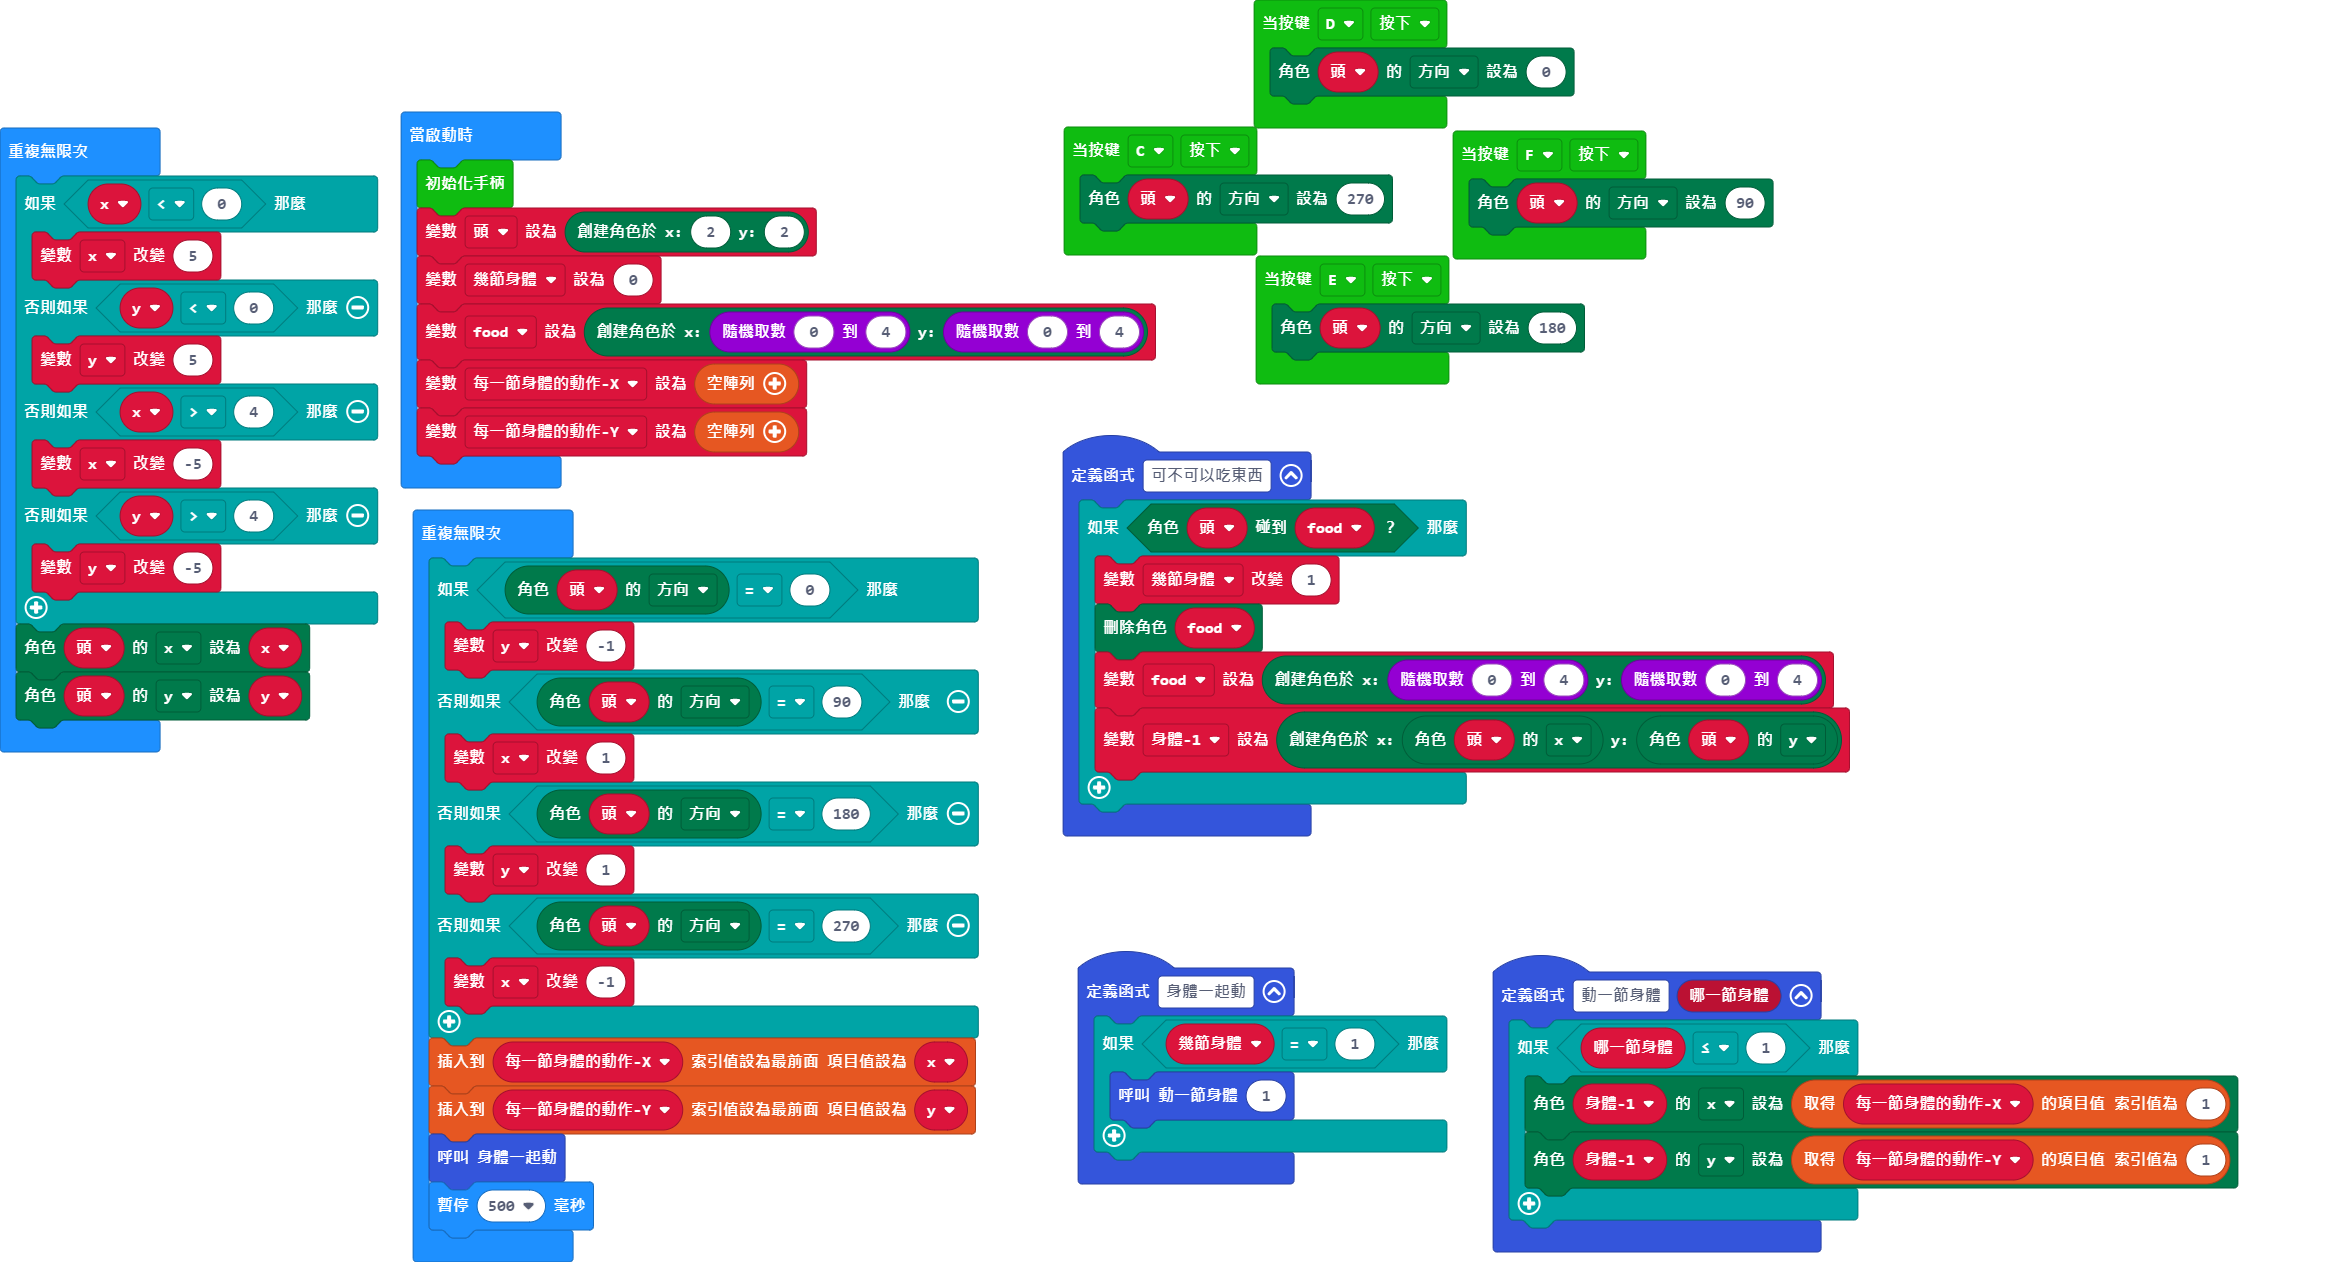
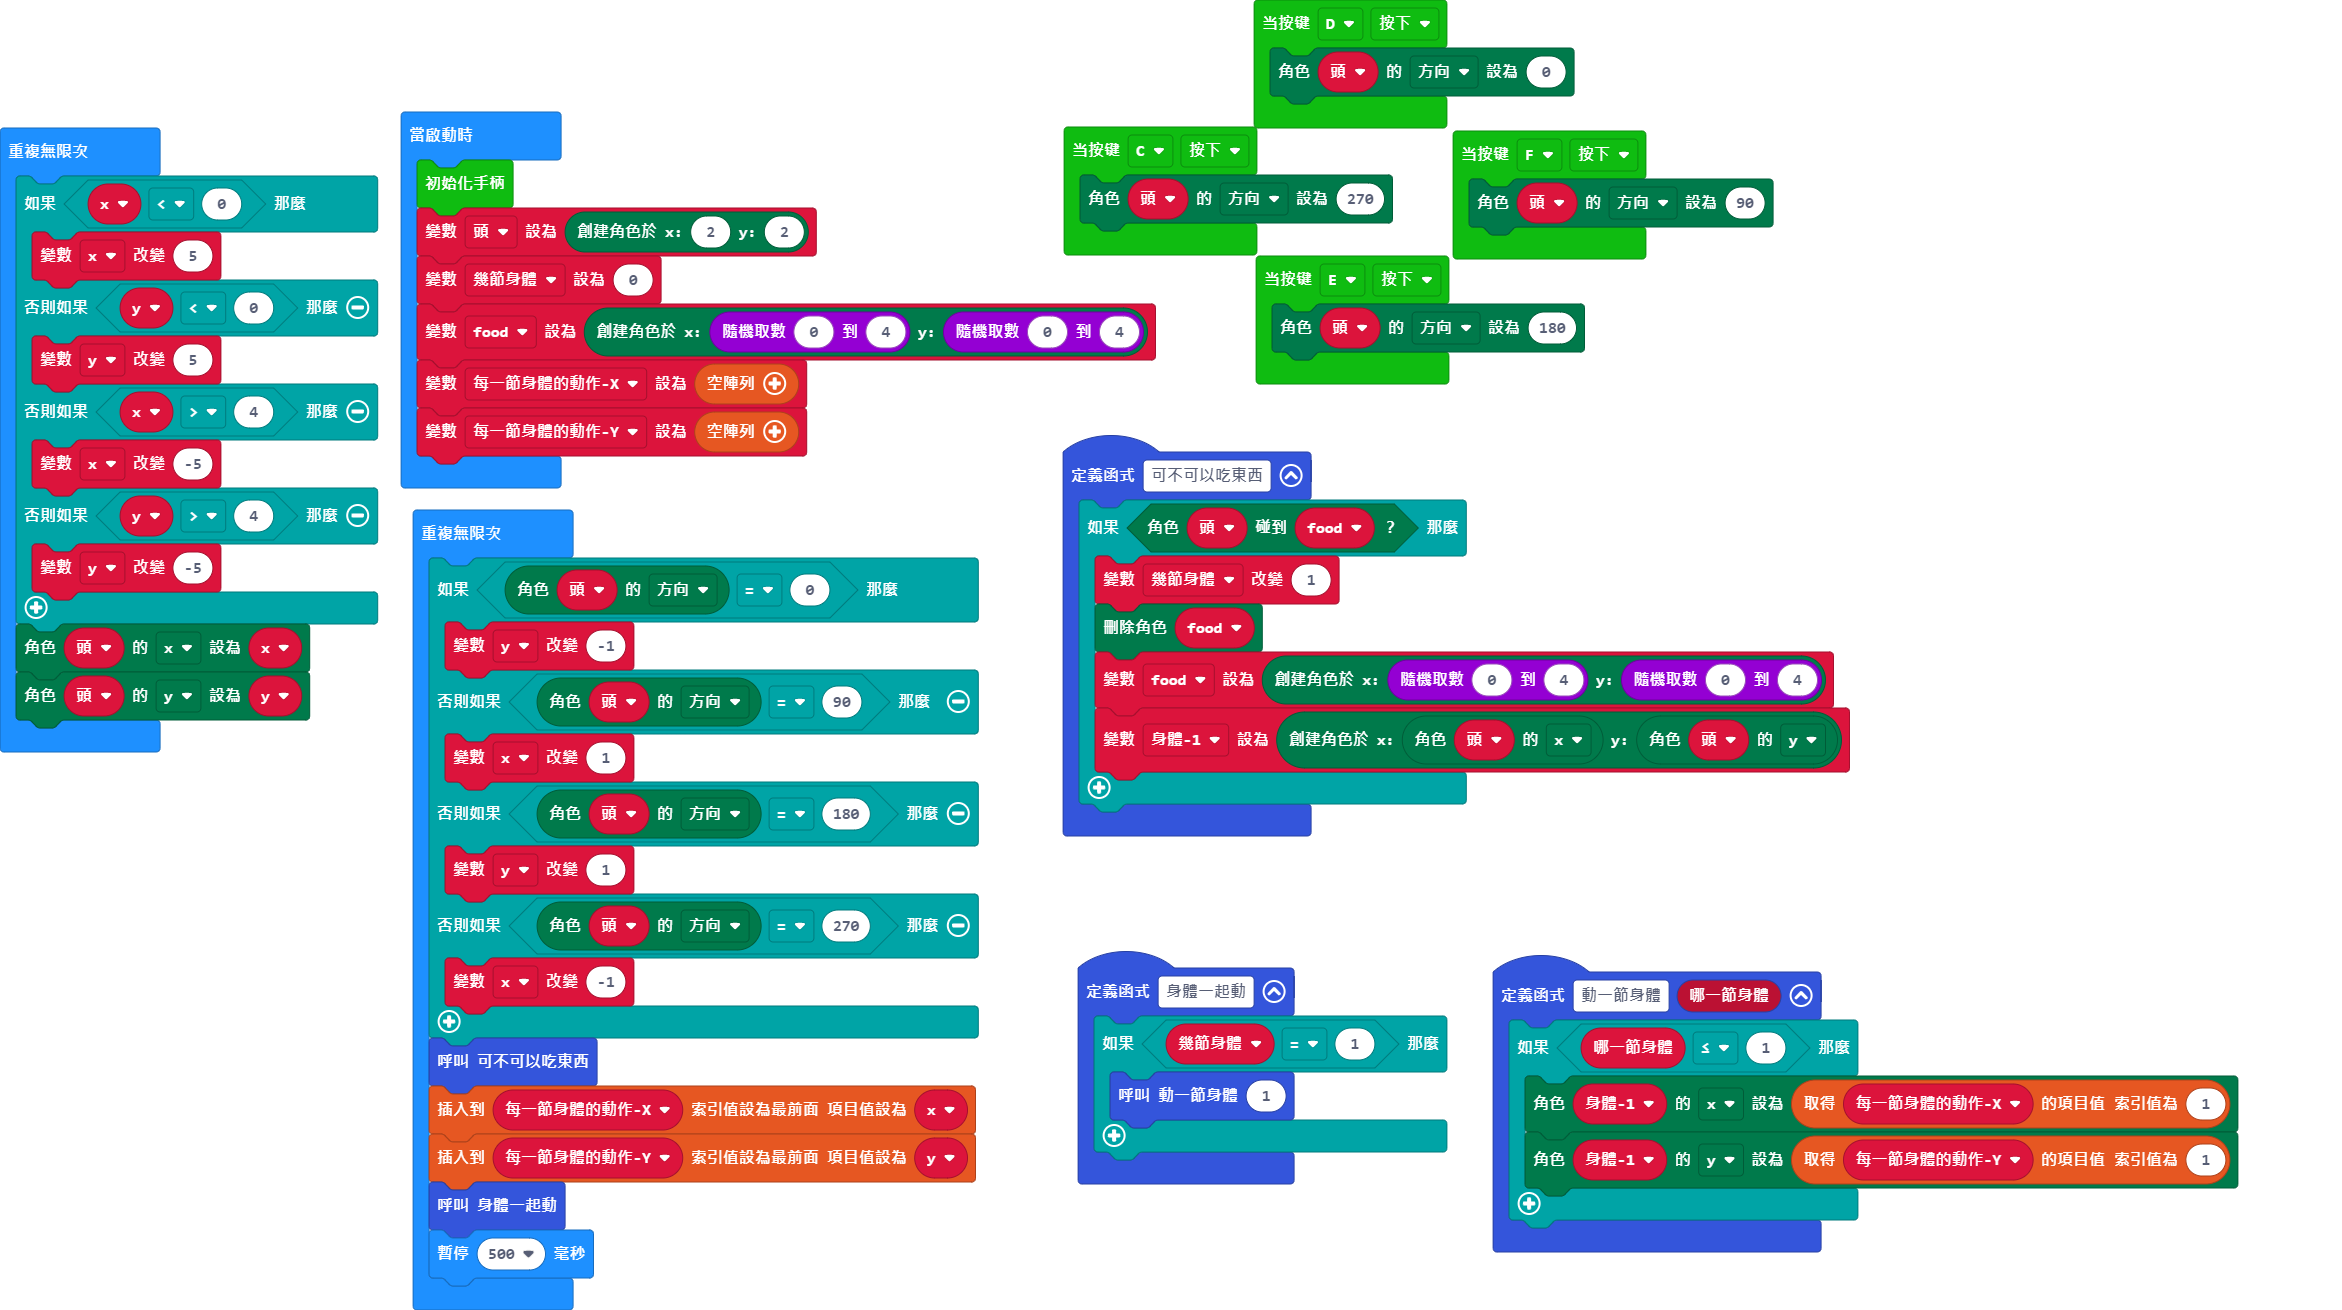
更新 main.blocks, main.ts

Changed region(s): [[0.0, 0.0, 0.9663, 1.0]]

diff --git a/main.ts b/main.ts
@@ -66,6 +66,7 @@ basic.forever(function () {
     } else if (頭.get(LedSpriteProperty.Direction) == 270) {
         x += -1
     }
+    可不可以吃東西()
     每一節身體的動作X.unshift(x)
     每一節身體的動作Y.unshift(y)
     身體一起動()
